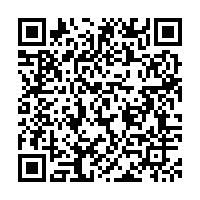
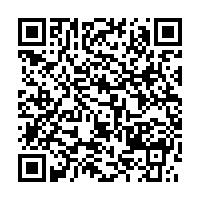
2.1. Visiting facility -> Gekomen tot de functie 'sendCapsule' + er zit mss een foutje in de generatie van de user tokens....

Changed region(s): [[0.09, 0.09, 0.93, 0.93]]

diff --git a/src/main/java/Visitor/VisitorClient.java b/src/main/java/Visitor/VisitorClient.java
@@ -1,13 +1,27 @@
 package Visitor;
 
 import Interfaces.EnrollmentInterface;
+import com.google.zxing.BinaryBitmap;
+import com.google.zxing.NotFoundException;
 
+import java.io.FileNotFoundException;
+import java.io.IOException;
 import java.rmi.registry.LocateRegistry;
 import java.rmi.registry.Registry;
-import java.util.List;
+import java.time.LocalDateTime;
+import java.time.format.DateTimeFormatter;
+import java.util.Calendar;
+
+import java.io.FileInputStream;
+import javax.imageio.ImageIO;
+
+import com.google.zxing.MultiFormatReader;
+import com.google.zxing.client.j2se.BufferedImageLuminanceSource;
+import com.google.zxing.common.HybridBinarizer;
+
 
 public class VisitorClient {
-    public static void main(String[] args) {
+    public static void main(String[] args) throws NotFoundException, IOException {
         Visitor visitor = new Visitor("Wannes", "+32 456 30 81 66");
 
         try {
@@ -21,7 +35,50 @@ public class VisitorClient {
             impl.registerVisitor(visitor);
 
             System.out.println("Succesfully registered to the system");
-        } catch (Exception e) { e.printStackTrace(); }
 
+            String H = scanQR(visitor);
+
+
+            // todo: time intervals... Die snap ik nie goe (Denk dat we ook nog gaan moeten kijken om de incubation time achtig bij te houden)
+            int day = Calendar.getInstance().get(Calendar.DAY_OF_MONTH);
+            // todo: Ik twijfel nog doordeze functie aan mijn implementatie van de tokens...
+            // De twijfel : bij user enrollement - moet ek voor elke dag van de maand nen set vna 48 tokens voorzien? of worden deze per dag uitgedeeld...
+            // Dus zou kunnen dat daar nog nen fout in zit...
+            impl.sendCapsule(visitor.getToken(day));
+        }
+        catch (Exception e) { e.printStackTrace(); }
     }
+    public static String scanQR(Visitor visitor) throws NotFoundException, IOException {
+        // Read QR
+        // For now: just dummy procedure where it selects current day
+        int dayOfMonth = Calendar.getInstance().get(Calendar.DAY_OF_MONTH);
+        String filename = "QRCodes/QRCode_day" + 3 + ".jpg";
+        String[] qr = readQRcode(filename).split(";");
+        // random number
+        String R_i = qr[0];
+        // Unique identifier of the facility
+        String CF = qr[1];
+        // Hash
+        String H = qr[2];
+        // Get Current time
+        DateTimeFormatter dtf = DateTimeFormatter.ofPattern("yyyy/MM/dd HH:mm:ss");
+        String currentTime = dtf.format(LocalDateTime.now());
+        // Store locally
+        // todo: is het oke om als key te nemen, day of month?
+        visitor.addVisit(new String[]{R_i, CF}, dayOfMonth);
+        // Print result log
+        System.out.println("Random number: "+R_i);
+        System.out.println("Unique Identifier: "+ CF);
+        System.out.println("Hash: "+ H);
+        System.out.println("Current date & time: "+ currentTime);
+        // todo: save and determine for how long this will be saved
+    }
+    public static String readQRcode(String file) throws FileNotFoundException, IOException, NotFoundException {
+        FileInputStream fileInputStream = new FileInputStream(file);
+        BufferedImageLuminanceSource bufferedImageLuminanceSource = new BufferedImageLuminanceSource(ImageIO.read(fileInputStream));
+        BinaryBitmap binaryBitmap = new BinaryBitmap(new HybridBinarizer((bufferedImageLuminanceSource)));
+
+        return (new MultiFormatReader().decode(binaryBitmap)).getText();
+    }
+
 }

diff --git a/src/main/java/Registrar/EnrollmentInterfaceImpl.java b/src/main/java/Registrar/EnrollmentInterfaceImpl.java
@@ -15,11 +15,7 @@ import java.rmi.RemoteException;
 import java.rmi.server.UnicastRemoteObject;
 import java.security.*;
 import java.time.LocalDate;
-import java.util.ArrayList;
-import java.util.Arrays;
-import java.util.Base64;
-import java.util.List;
-
+import java.util.*;
 
 public class EnrollmentInterfaceImpl extends UnicastRemoteObject implements EnrollmentInterface {
 
@@ -102,14 +98,14 @@ public class EnrollmentInterfaceImpl extends UnicastRemoteObject implements Enro
         return nymArray;
     }
 
+    /** 1.2 + 1.3 Enroll visitor + tokens **/
     public void registerVisitor(Visitor visitor) {
         registrarDB.addVisitor(visitor);
         List<byte[]> tokens = new ArrayList<>();
-        List<byte[]> controle = new ArrayList<>();
 
         byte[] today = LocalDate.now().toString().getBytes(StandardCharsets.UTF_8);
         try {
-            // TODO: wat wil sign_RC zeggen? Keymaénagement?
+            // TODO: wat wil sign_RC zeggen? Keymanagement?
             Signature dsa = Signature.getInstance("SHA1withDSA", "SUN");
             SecureRandom random = SecureRandom.getInstance("SHA1PRNG", "SUN");
 
@@ -124,7 +120,7 @@ public class EnrollmentInterfaceImpl extends UnicastRemoteObject implements Enro
 
             byte[] signed;
             // TODO is dit wat bedoelt wordt met die random.... ik vrees er wat voor...
-            for (int i=0; i<48; i++) {
+            for (int i = 0; i < 48; i++) {
                 // Wannes manier...
                 // byte[] data = ArrayUtils.addAll(Long.toString(random.nextLong()).getBytes(StandardCharsets.UTF_8), today);
                 // dsa.update(data);
@@ -136,30 +132,28 @@ public class EnrollmentInterfaceImpl extends UnicastRemoteObject implements Enro
                 tokens.add(dsa.sign());
             }
 
-            // ***** Controle om aan te tonen dat mijn methode werkt ******
+            /** Controle om aan te tonen dat mijn methode werkt **/
             dsa.initVerify(publicKey);
             byte[] previous = null;
-            for(byte[] d : tokens) {
+            for (byte[] d : tokens) {
                 dsa.update(today);
-                if(dsa.verify(d) && !Arrays.equals(d, previous)) System.out.println("Very Nice");
-                else if(Arrays.equals(d, previous)) System.out.println("Redeneerfout");
+                if (dsa.verify(d) && !Arrays.equals(d, previous)) System.out.println("Very Nice");
+                else if (Arrays.equals(d, previous)) System.out.println("Redeneerfout");
                 else System.out.println("programmeerfout");
             }
-            // ***** Controle om aan te tonen dat mijn methode werkt ******
+            /** Controle om aan te tonen dat mijn methode werkt **/
 
             visitor.setTokens(tokens);
+        } catch (Exception e) {
+            e.printStackTrace();
         }
-        catch (Exception e) { e.printStackTrace(); }
     }
 
+    /** 2.1 Visit facility **/
+    @Override
+    public void sendCapsule(byte[] token) {
+        // TODO : tot hier geraakt....
 
-
-
-
-
-
-
-
-
+    }
 
 }

diff --git a/src/main/java/Visitor/Visitor.java b/src/main/java/Visitor/Visitor.java
@@ -1,6 +1,8 @@
 package Visitor;
 
 import java.io.Serializable;
+import java.util.Map;
+import java.util.HashMap;
 import java.util.List;
 
 public class Visitor implements Serializable {
@@ -8,10 +10,12 @@ public class Visitor implements Serializable {
     private String name;
     private String phone;
     private List<byte[]> tokens;
+    private Map<Integer, String[]> visits;
 
     public Visitor(String name, String phone) {
         this.name = name;
         this.phone = phone;
+        visits = new HashMap();
     }
 
     public String getName() { return name; }
@@ -21,4 +25,11 @@ public class Visitor implements Serializable {
     public void setTokens(List<byte[]> tokens) {
         this.tokens = tokens;
     }
+    public void addVisit(String [] log, int day) {
+        visits.put(day, log);
+    }
+    public byte[] getToken(int day) {
+        return tokens.get(day);
+    }
+
 }

diff --git a/src/main/java/Facility/Facility.java b/src/main/java/Facility/Facility.java
@@ -67,13 +67,22 @@ public class Facility implements Serializable {
 
     @Override
     public String toString() {
-        return "Facility{" +
+        String s = "facility{" +
                 "id=" + id +
                 ", name='" + name + '\'' +
                 ", address='" + address + '\'' +
                 ", phoneNr='" + phoneNr + '\'' +
                 ", keyArray=" + keyArray +
-                ", nymArray=" + nymArray +
-                '}';
+//                ", nymArray=" + nymArray + "}";
+                ", nymArray_size=" + nymArray.size() +
+                ", nymArray=[";
+        for(byte[] arr : nymArray) {
+            for(int i=0; i< arr.length; i++) {
+                s+=arr[i];
+            }
+            s+=',';
+        }
+        s += "]}";
+        return s;
     }
 }

diff --git a/src/main/java/Facility/BarOwnerClient.java b/src/main/java/Facility/BarOwnerClient.java
@@ -66,7 +66,7 @@ public class BarOwnerClient {
             String CFString = facility.getCF();
             String hashString = Base64.getEncoder().encodeToString(hash);
 
-            String barcodeText = randomString+CFString+hashString;
+            String barcodeText = randomString+";"+CFString+";"+hashString;
 
             // TODO ter info voor decode
 //            byte[] decode = Base64.getDecoder().decode(s);
@@ -84,13 +84,6 @@ public class BarOwnerClient {
             } catch (Exception e) { e.printStackTrace(); }
 
         }
-
-
-
-
-
-
-
 
     }
 }

diff --git a/src/main/java/Interfaces/EnrollmentInterface.java b/src/main/java/Interfaces/EnrollmentInterface.java
@@ -15,6 +15,7 @@ public interface EnrollmentInterface extends Remote {
 
     void registerVisitor(Visitor visitor) throws RemoteException, IllegalStateException;
 
+    void sendCapsule(byte[] token);
 
-
+//    void visitFacility_scan(Visitor v, String qr_scanned);
 }
